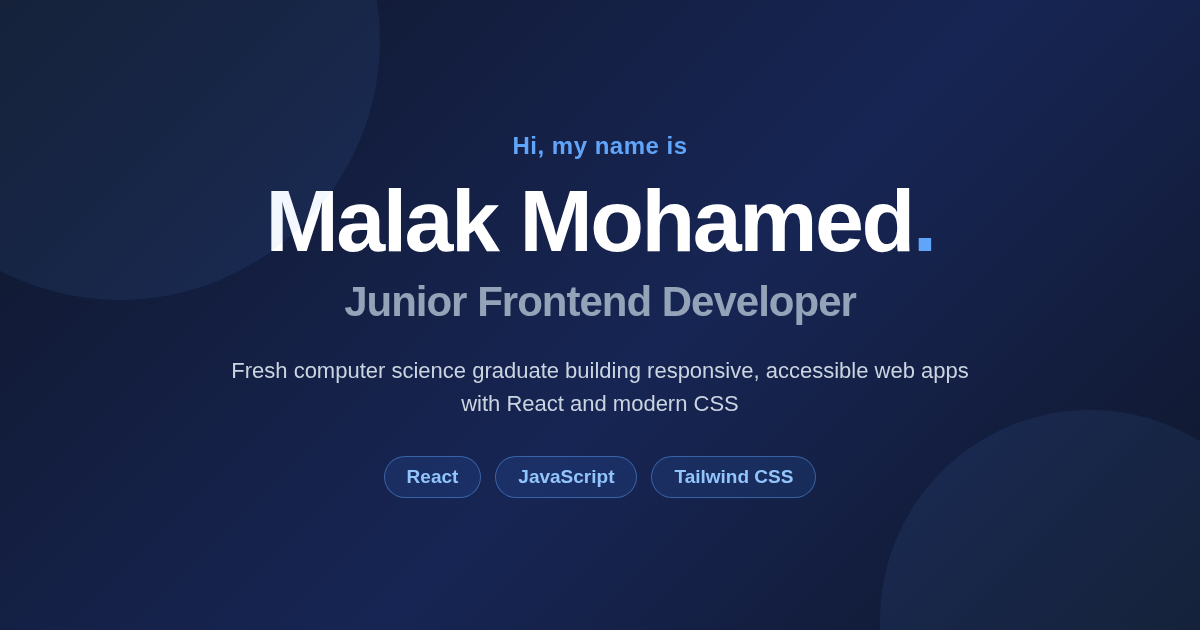
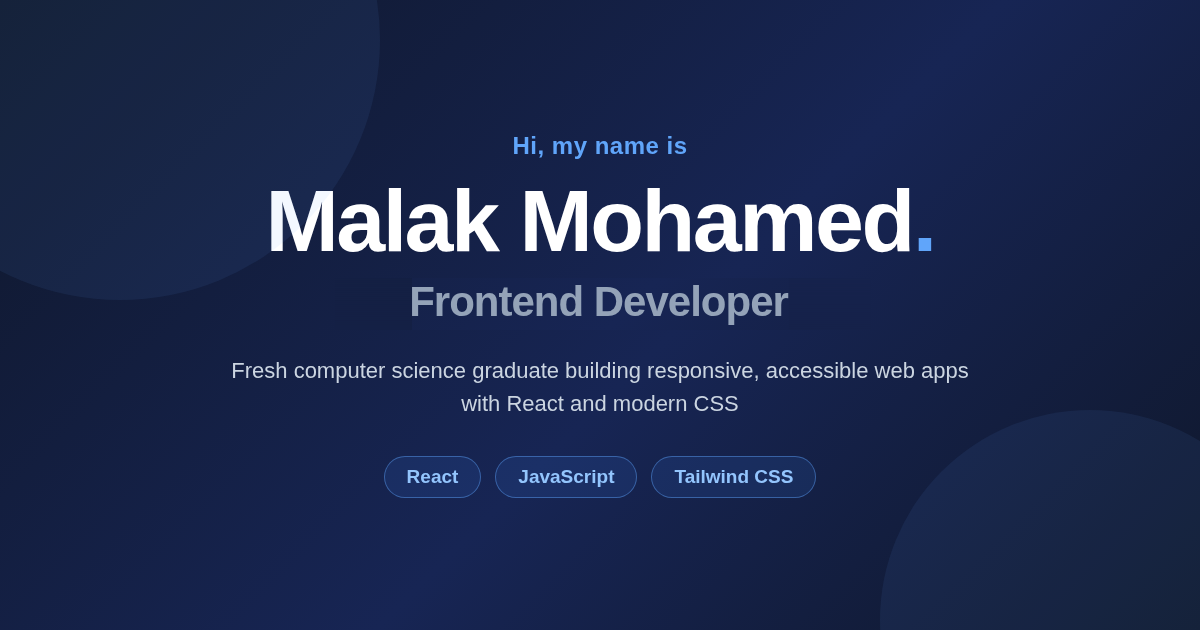
Remove 'junior' from profile and portfolio text and images

Changed region(s): [[0.2775, 0.4524, 0.7092, 0.5127]]

diff --git a/index.html b/index.html
@@ -3,21 +3,21 @@
 <head>
   <meta charset="UTF-8" />
   <meta name="viewport" content="width=device-width, initial-scale=1.0" />
-  <meta name="description" content="Malak Mohamed - Junior Frontend Developer. React, JavaScript, Tailwind CSS. Portfolio and contact." />
+  <meta name="description" content="Malak Mohamed - Frontend Developer. React, JavaScript, Tailwind CSS. Portfolio and contact." />
   <meta property="og:type" content="website" />
   <meta property="og:site_name" content="Malak Mohamed" />
-  <meta property="og:title" content="Malak Mohamed | Junior Frontend Developer" />
-  <meta property="og:description" content="Junior Frontend Developer skilled in React, JavaScript and modern CSS. Explore my projects and get in touch." />
+  <meta property="og:title" content="Malak Mohamed | Frontend Developer" />
+  <meta property="og:description" content="Frontend Developer skilled in React, JavaScript and modern CSS. Explore my projects and get in touch." />
   <meta property="og:url" content="https://malakmo7amed309.github.io/" />
   <meta property="og:image" content="https://malakmo7amed309.github.io/og-image.png?v=3" />
   <meta property="og:image:width" content="1200" />
   <meta property="og:image:height" content="630" />
-  <meta property="og:image:alt" content="Malak Mohamed, Junior Frontend Developer portfolio" />
+  <meta property="og:image:alt" content="Malak Mohamed, Frontend Developer portfolio" />
   <meta name="twitter:card" content="summary_large_image" />
-  <meta name="twitter:title" content="Malak Mohamed | Junior Frontend Developer" />
-  <meta name="twitter:description" content="Junior Frontend Developer skilled in React, JavaScript and modern CSS. Explore my projects and get in touch." />
+  <meta name="twitter:title" content="Malak Mohamed | Frontend Developer" />
+  <meta name="twitter:description" content="Frontend Developer skilled in React, JavaScript and modern CSS. Explore my projects and get in touch." />
     <meta name="twitter:image" content="https://malakmo7amed309.github.io/og-image.png?v=3" />
-  <title>Malak Mohamed | Junior Frontend Developer</title>
+  <title>Malak Mohamed | Frontend Developer</title>
   <link rel="preconnect" href="https://fonts.googleapis.com" />
   <link rel="preconnect" href="https://fonts.gstatic.com" crossorigin />
   <link href="https://fonts.googleapis.com/css2?family=Inter:wght@400;500;600;700;800&display=swap" rel="stylesheet" />
@@ -44,11 +44,11 @@
     <div class="container hero-inner">
       <p class="hero-hi">Hi, my name is</p>
       <h1>Malak Mohamed</h1>
-      <h2 class="hero-role">Junior Frontend Developer</h2>
+      <h2 class="hero-role">Frontend Developer</h2>
       <p class="hero-text">
         Fresh computer science graduate based in Fayoum, Egypt. I build responsive,
         accessible web apps with React and modern CSS, and I'm looking for my first
-        junior frontend role, remote-friendly.
+        frontend role, remote-friendly.
       </p>
       <div class="hero-actions">
         <a href="#projects" class="btn btn-primary">View my work</a>
@@ -82,7 +82,7 @@
           </p>
           <p>
             I care about clean, readable code and interfaces that work well on every screen.
-            Right now I'm deepening my React and TypeScript skills and looking for a junior
+            Right now I'm deepening my React and TypeScript skills and looking for a
             frontend position where I can keep learning and ship real product.
           </p>
         </div>
@@ -746,7 +746,7 @@
       <div class="container contact-inner">
         <h2 class="section-title">Get in touch</h2>
         <p>
-          I'm open to junior frontend roles and internships, remote or in Fayoum/Cairo.
+          I'm open to frontend roles and internships, remote or in Fayoum/Cairo.
           The fastest way to reach me is email:
         </p>
         <a href="mailto:malakmo7amed309@gmail.com" class="btn btn-primary">malakmo7amed309@gmail.com</a>

diff --git a/README.md b/README.md
@@ -29,4 +29,4 @@ Deployed with GitHub Pages from the `main` branch.
 
 ## Author
 
-Malak Mohamed - Junior Frontend Developer - [GitHub](https://github.com/malakmo7amed309)
+Malak Mohamed - Frontend Developer - [GitHub](https://github.com/malakmo7amed309)
